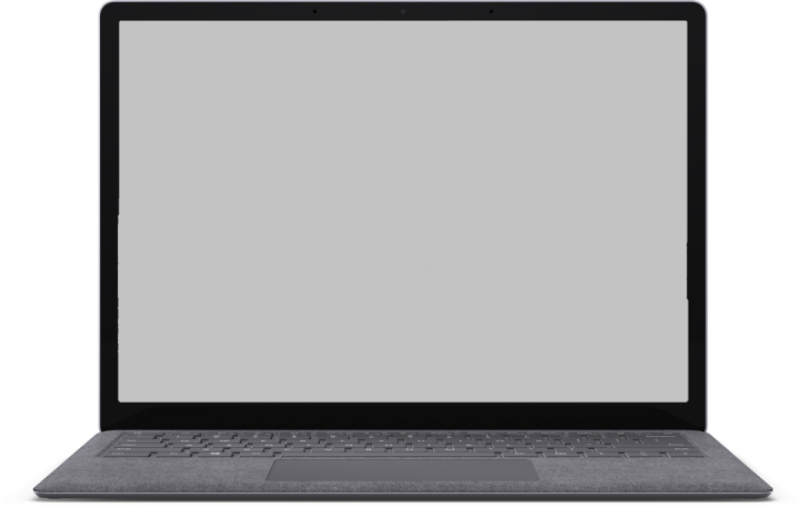
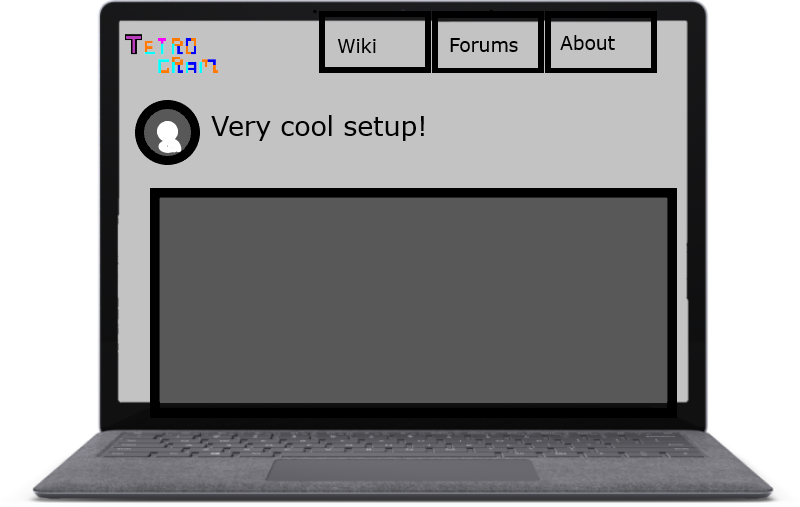
finalizou o projeto

diff --git a/style.css b/style.css
@@ -64,10 +64,84 @@ body {
     justify-content: space-between;
     align-items: center;
     flex-direction: column;
-    background-color: #888;
-    border: 1px solid #777;
+    background-color: #777;
+    border: 1px solid #616161;
+    margin-top: 1rem;
 }
 
 .group:nth-child(1) {
     min-height: 19rem;
+}
+
+.tetrogram-login {
+    background-color: #0066ff;
+    color: #000000;
+    padding: 8px;
+    margin-top: 1rem;
+    border-radius: 4px;
+}
+
+.tetrogram-logout {
+    color: #0066ff;
+    margin: 1rem;
+}
+
+.not-account{
+    color: #ddd;
+    margin-top: 1rem;
+}
+
+.link-blue{
+    color: #0066ff;
+}
+
+.get-the-app{
+    display: flex;
+    flex-direction: column;
+    align-items: center;
+    justify-content: center;
+    width: 100%;
+    padding: 1.3rem 0;
+}
+
+.download{
+    display: flex;
+    width: 100%;
+    justify-content: space-evenly;
+    align-items: center;
+    padding: 1rem;
+}
+.app-download{
+    height: 3rem;
+    width: 10rem;
+    background-size: cover;
+}
+
+.app-download:nth-child(1){
+    background-image: url(apple-button.png);
+}
+
+.app-download:nth-child(2){
+    background-image: url(googleplay-button.png);
+}
+
+@media (max-width: 1024px) {
+    .tetrogram-wrapper{
+        width: 90%;
+    }
+}
+
+@media (max-width: 650px) {
+    .body{
+        background-color: #454545;
+    }
+    .tetrogram-wrapper{
+        width: 90%;
+    }
+    .tetrogram-laptop{
+        display: none;
+    }
+    .tetrogram-continue{
+        width: 100%;
+    }
 }

diff --git a/index.html b/index.html
@@ -2,7 +2,8 @@
 <html lang="en">
     <head>
         <meta charset="UTF-8">
-        <meta name="viewport" content="width=devicewidth, initial-scale=1.0">
+        <meta http-equiv="X-UA-Compatible" content="IE=edge">
+        <meta name="viewport" content="width=device-width, initial-scale=1.0">
         <link rel="stylesheet" href="style.css">
         <title>Tetrogram</title>
     </head>
